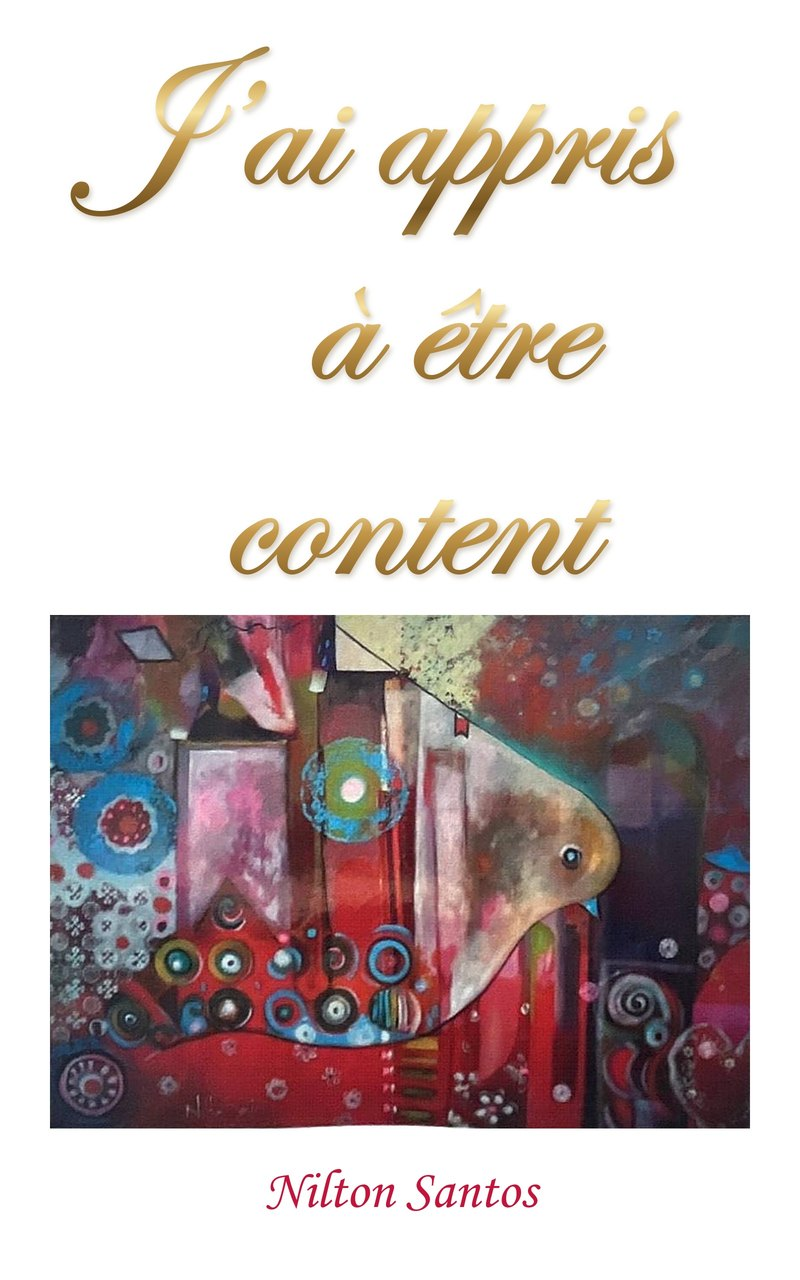
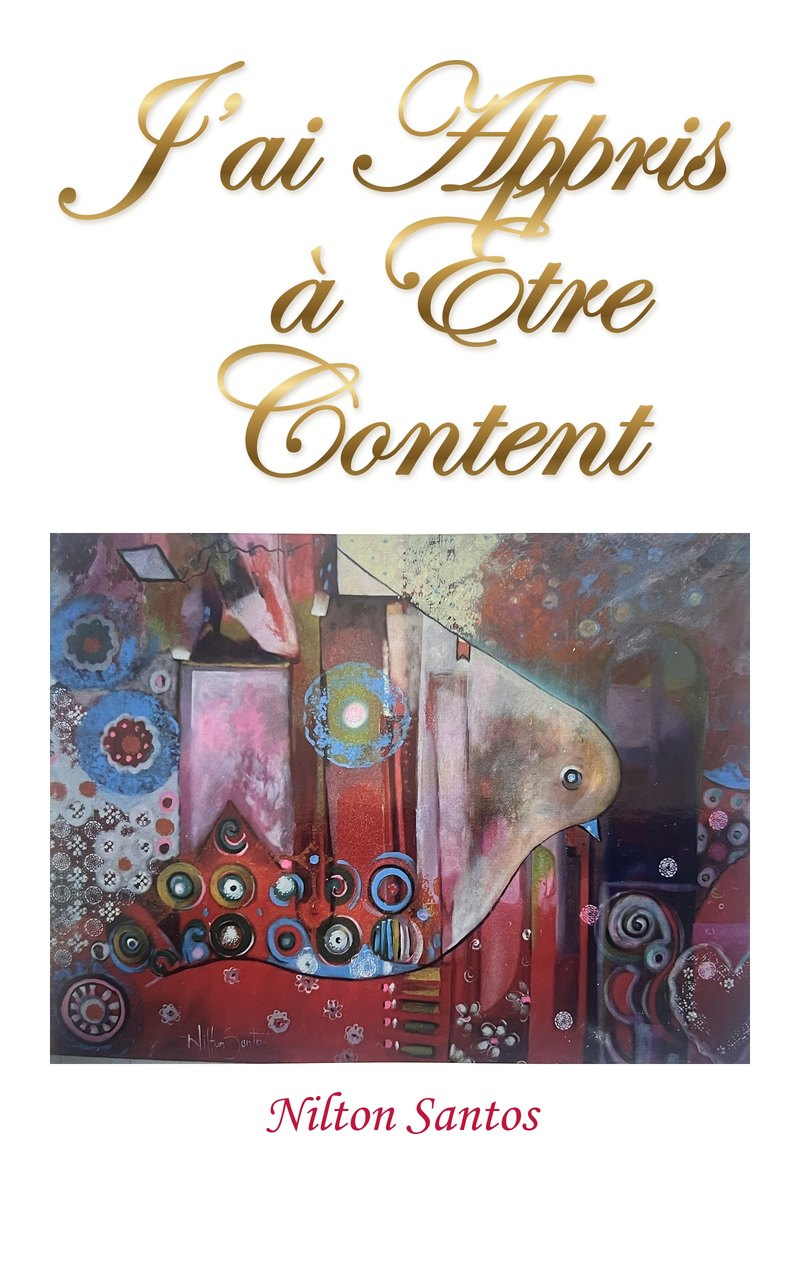
Aprendi a Estar Contente / J'ai appris à être content : couvertures en haute définition
Tableau de Nilton re-photographié et redressé (3560 px au lieu de 826), titre PT extrait du lettrage original, titre FR avec capitales A/Ê/C. La page PT affiche désormais sa couverture et renvoie vers l'édition française.

diff --git a/aprendi-a-estar-contente.html b/aprendi-a-estar-contente.html
@@ -223,6 +223,7 @@
     </nav>
 
     <div class="hero">
+        <img src="images/covers/aprendi-a-estar-contente.jpg" alt="Capa de Aprendi a Estar Contente, de Nilton Santos" width="800" height="1280" style="display:block;width:240px;max-width:60%;height:auto;margin:0 auto 30px;border:2px solid #DAA520;border-radius:4px;box-shadow:0 10px 30px rgba(218,165,32,.25)">
         <h1>Aprendi a Estar Contente</h1>
         <p class="subtitle">Lições Práticas sobre Contentamento e Paz Interior</p>
         <p style="color: #DAA520; font-size: 1.2rem;">por Pastor Nilton Santos</p>
@@ -319,6 +320,7 @@
             <h2>Adquira Seu Exemplar</h2>
             <p style="margin-bottom: 2rem;">Disponível em formato digital e impresso</p>
             <a href="https://www.amazon.com.br/dp/B0G1L1VTW5" class="btn" target="_blank">Comprar na Amazon</a>
+            <a href="jai-appris-a-etre-content.html" class="btn" style="background:transparent;color:#DAA520;border:2px solid #DAA520">Edição francesa</a>
             <a href="catalogo.html" class="btn" style="background: #666;">Ver Outros Livros</a>
         </div>
     </div>
